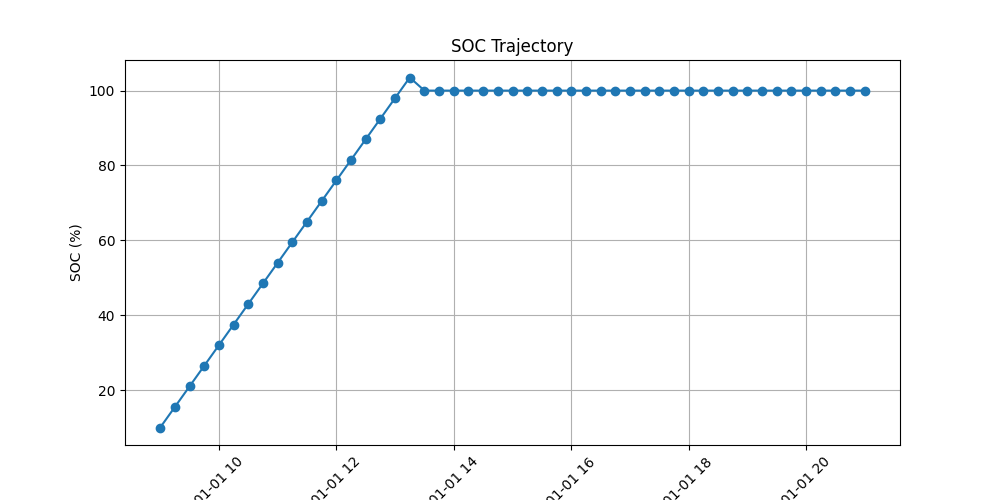
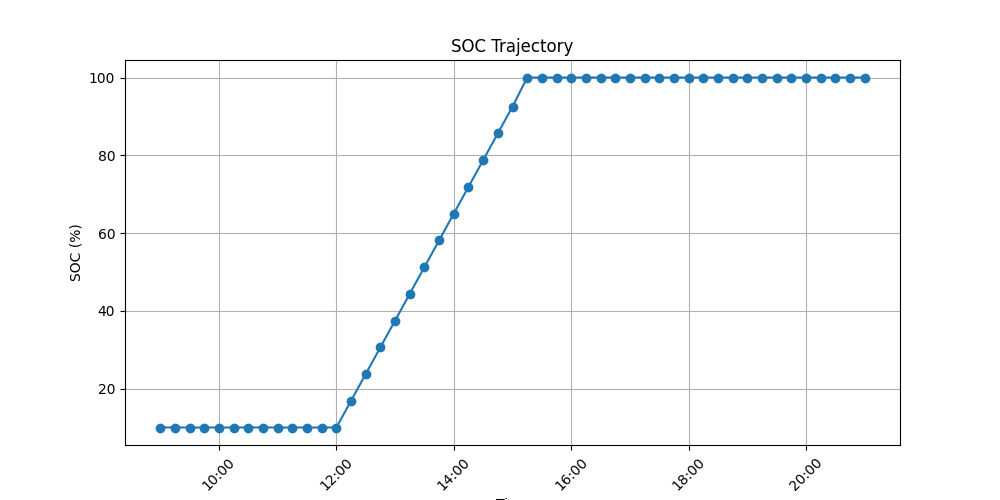
fix: connectionTime and disconnectionTime implemented on charging simulation

diff --git a/main.py b/main.py
@@ -2,35 +2,46 @@ from Classes import ChargingUnit,ElectricVehicle
 import pandas as pd
 from datetime import datetime,timedelta
 import matplotlib.pyplot as plt
+import matplotlib.dates as mdates
 import os 
 
-def simulateCharging(ev,cu,startTime,endTime,interval):
+def simulateCharging(ev,cu,startTime,endTime,connectionTime, disconnectionTime,interval):
     time = startTime
     chargingPower = min(ev.maxPower,cu.maxPower)
-    data = [[time,chargingPower,ev.stateOfCharge,0]]
+    energyCharged = 0
+    data = [[time,chargingPower,ev.stateOfCharge,energyCharged]]
     i = 0
-
     while time < endTime:
-        if chargingPower*(interval.total_seconds()/3600)*(i+2) > ev.batteryCapacity:
-            chargingPower = (100 - ev.stateOfCharge)*ev.batteryCapacity/(interval.total_seconds()/36)
-        elif ev.stateOfCharge >= 100:
-            chargingPower = 0
-        energyCharged = chargingPower*(interval.total_seconds()/3600)
-        ev.stateOfCharge += (energyCharged/ev.batteryCapacity)*100
-        time += interval
+        if time >= connectionTime and time <= disconnectionTime:
+            while time < disconnectionTime:
+                if chargingPower*(interval.total_seconds()/3600)*(i+3) > ev.batteryCapacity:
+                    chargingPower = (100 - ev.stateOfCharge)*ev.batteryCapacity/(interval.total_seconds()/36)
+                elif ev.stateOfCharge >= 100:
+                    chargingPower = 0
+                energyCharged = chargingPower*(interval.total_seconds()/3600)
+                ev.stateOfCharge += (energyCharged/ev.batteryCapacity)*100
+                time += interval
+                data.append([time,chargingPower,ev.stateOfCharge,energyCharged])
+                i += 1 
+        time+=interval
         data.append([time,chargingPower,ev.stateOfCharge,energyCharged])
-        i += 1 
     return pd.DataFrame(data, columns=["Timestamp", "Charging Power (kW)", "SOC (%)", "Net Energy Charged (kWh)"])
 
 #Simulation parameters
 
 startTime = datetime.strptime("09:00", "%H:%M")
 endTime = datetime.strptime("21:00", "%H:%M")
+connectionTime = input()
+disconnectionTime = input()
+connectionTime = datetime.strptime(connectionTime, "%H:%M")
+disconnectionTime = datetime.strptime(disconnectionTime, "%H:%M")
+
+
 interval = timedelta(minutes=15)
 ev = ElectricVehicle.EletricVehicle()
 cu = ChargingUnit.ChargingUnit()
 
-df = simulateCharging(ev,cu,startTime,endTime,interval)
+df = simulateCharging(ev,cu,startTime,endTime,connectionTime,disconnectionTime,interval)
 
 
 base_dir = os.path.dirname(os.path.abspath(__file__))
@@ -49,7 +60,8 @@ plt.plot(df["Timestamp"], df["SOC (%)"], marker='o', linestyle='-')
 plt.xlabel("Time")
 plt.ylabel("SOC (%)")
 plt.title("SOC Trajectory")
-plt.xticks(rotation=45)
+plt.gca().xaxis.set_major_formatter(mdates.DateFormatter("%H:%M"))
+plt.xticks(rotation=45) #Better visualization 
 plt.grid()
 plt.savefig(png_path)
 plt.show()

diff --git a/Classes/ElectricVehicle.py b/Classes/ElectricVehicle.py
@@ -1,5 +1,5 @@
 class EletricVehicle():
-    def __init__(self,maxPower = 11,batteryCapacity = 50,stateOfCharge = 10,connectionStatus = False):
+    def __init__(self,maxPower = 11,batteryCapacity = 40,stateOfCharge = 10,connectionStatus = False):
         self.maxPower = maxPower
         self.batteryCapacity = batteryCapacity
         self.stateOfCharge = stateOfCharge
